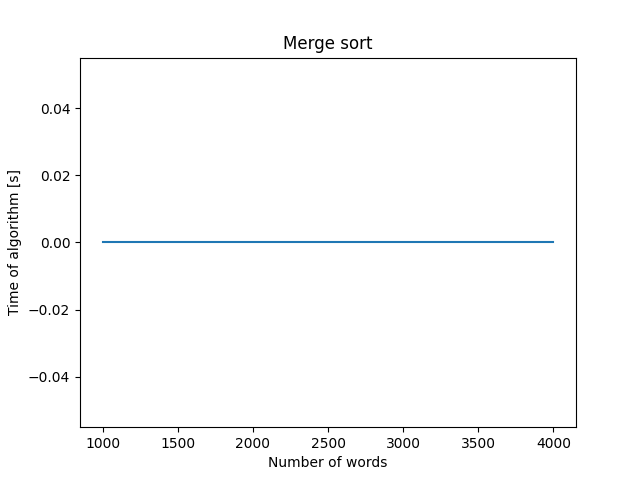
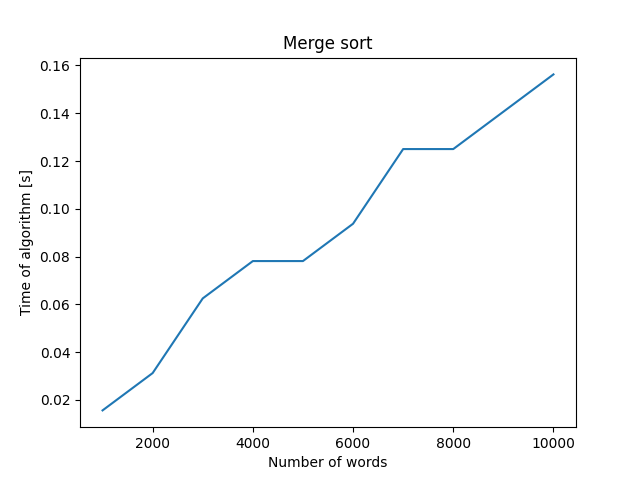
done

diff --git a/main.py b/main.py
@@ -1,95 +1,41 @@
-import time
-import matplotlib.pyplot as plt
-
-
-def bubble_sort(list):
-    sorted_list = list[:]  # copy of original list, so it is not modified
-    n = len(sorted_list)
-    start = time.process_time()
-    for i in range(n):
-        change = False
-        for j in range(0, n - i - 1):
-            if sorted_list[j] > sorted_list[j + 1]:
-                sorted_list[j], sorted_list[j + 1] = (
-                    sorted_list[j + 1],
-                    sorted_list[j],
-                )
-                change = True
-        if not change:
-            break
-    stop = time.process_time()
-    return sorted_list, stop - start
-
-
-def insertion_sort(list):
-    return 0, 0
-
-
-def selection_sort(list):
-    return 0, 0
-
-
-def merge_pass(list):
-    return 0, 0
-
-
-def load_file(path, n):
-    with open(
-        path, "r", encoding="utf8"
-    ) as file:  # opening file from your working folder
-        data = file.read()
-    list_of_words = data.split(maxsplit=n)
-    list_of_words.pop()
-    return list_of_words
-
-
-def make_plot(n, t, name):
-    ax = plt.subplots()[1]
-    ax.plot(n, t)
-    ax.set_xlabel("Number of words")
-    ax.set_ylabel("Time of algorithm [s]")
-    ax.set_title(name)
-    plt.savefig("plots/" + (name.lower().replace(" ", "_")) + ".png")
-    plt.show()
+from sort import *
+from plot import *
+from file import *
+from test import *
 
 
 def main():
-    number_of_words = list(range(1000, 5000, 1000))
+    number_of_words = list(range(1000, 11000, 1000))  # list of nubmer words to read from file
 
     Algorithm_time = {
-        "Bubble sort": [],
-        "Selection sort": [],
-        "Insertion sort": [],
-        "Merge sort": [],
+        "Bubble sort": [[], []],  # for 0 time, for 1 sorted words
+        "Selection sort": [[], []],
+        "Insertion sort": [[], []],
+        "Merge sort": [[], []],
     }
 
     for n in number_of_words:
-        words = load_file("pan-tadeusz.txt", n)
-        words_bubble, t = bubble_sort(words)
-        Algorithm_time["Bubble sort"].append(t)
-        print("Czas wykonania w sekundach Bubble sort:", t)
-
-        words_selection, t = selection_sort(words)  # for Selection algorithm
-        Algorithm_time["Selection sort"].append(t)
-        print("Czas wykonania w sekundach Selection sort:", t)
-
-        words_insertion, t = insertion_sort(words)  # for Insertion algorithm
-        Algorithm_time["Insertion sort"].append(t)
-        print("Czas wykonania w sekundach Insertion sort:", t)
-
-        words_merge, t = merge_pass(words)  # for Merge algorithm
-        Algorithm_time["Merge sort"].append(t)
-        print("Czas wykonania w sekundach Merge sort:", t)
+        words = load_file("pan-tadeusz.txt", n)  # reading words from file
+        print(f"Number of words:{n}")
+        for key in Algorithm_time:
+            if key == "Bubble sort":
+                Algorithm_time[key][1], t = bubble_sort(words)  # for Bubble algorithm
+            elif key == "Selection sort":
+                Algorithm_time[key][1], t = selection_sort(words)  # for Selection algorithm
+            elif key == "Insertion sort":
+                Algorithm_time[key][1], t = insertion_sort(words)  # for Insertion algorithm
+            elif key == "Merge sort":
+                Algorithm_time[key][1] = words[:]  # because of recursive function we need copy before
+                t = merge_sort(Algorithm_time[key][1])  # for Merge algorithm
+            Algorithm_time[key][0].append(t)
+            print(f"Time of execution in seconds for {key} algorithm:{t}")
 
     for key in Algorithm_time:
-        make_plot(number_of_words, Algorithm_time[key], key)
+        make_plot(number_of_words, Algorithm_time[key][0], key)  # making individual plot
+    one_plot(number_of_words, Algorithm_time)  # making one plot with every algorithm
 
-    if words_bubble == words_insertion == words_merge == words_selection:
-        print("All algorithms sorted words the same way, therefore they work correctly")
-    else:
-        print(
-            "Not all algorithms sorted words the same way, therefore they might not work correctly"
-        )
+    test(Algorithm_time, words)
 
 
-main()
+if __name__ == "__main__":
+    main()

diff --git a/sort.py b/sort.py
@@ -1,0 +1,77 @@
+import time
+
+
+def bubble_sort(list):
+    sorted_list = list[:]  # copy of original list, so it is not modified
+    start = time.process_time()
+    n = len(sorted_list)
+    for i in range(n):
+        change = False
+        for j in range(0, n - i - 1):
+            if sorted_list[j] > sorted_list[j + 1]:
+                sorted_list[j], sorted_list[j + 1] = (
+                    sorted_list[j + 1],
+                    sorted_list[j],
+                )
+                change = True
+        if not change:
+            break
+    stop = time.process_time()
+    return sorted_list, stop - start
+
+
+def insertion_sort(list):
+    sorted_list = list[:]
+    start = time.process_time()
+    for i in range(1, len(sorted_list)):
+        key = sorted_list[i]
+        j = i - 1
+        while j >= 0 and key < sorted_list[j]:
+            sorted_list[j + 1] = sorted_list[j]
+            j -= 1
+        sorted_list[j + 1] = key
+    stop = time.process_time()
+    return sorted_list, stop - start
+
+
+def selection_sort(list):
+    sorted_list = list[:]
+    start = time.process_time()
+    n = len(sorted_list)
+    for i in range(n):
+        min_index = i
+        for j in range(i + 1, n):
+            if sorted_list[j] < sorted_list[min_index]:
+                min_index = j
+        sorted_list[i], sorted_list[min_index] = sorted_list[min_index], sorted_list[i]
+    stop = time.process_time()
+    return sorted_list, stop - start
+
+
+def merge_sort(list):
+    start = time.process_time()
+    if len(list) > 1:
+        mid = len(list) // 2
+        left_half = list[:mid]
+        right_half = list[mid:]
+        merge_sort(left_half)
+        merge_sort(right_half)
+        i = j = k = 0
+        while i < len(left_half) and j < len(right_half):
+            if left_half[i] < right_half[j]:
+                list[k] = left_half[i]
+                i += 1
+            else:
+                list[k] = right_half[j]
+                j += 1
+            k += 1
+        while i < len(left_half):
+            list[k] = left_half[i]
+            i += 1
+            k += 1
+        while j < len(right_half):
+            list[k] = right_half[j]
+            j += 1
+            k += 1
+    stop = time.process_time()
+    return stop - start

diff --git a/plot.py b/plot.py
@@ -1,0 +1,21 @@
+import matplotlib.pyplot as plt
+
+
+def make_plot(n, t, name):
+    ax = plt.subplots()[1]
+    ax.plot(n, t)
+    ax.set_xlabel("Number of words")
+    ax.set_ylabel("Time of algorithm [s]")
+    ax.set_title(name)
+    plt.savefig("plots/" + (name.lower().replace(" ", "_")) + ".png")
+    plt.show()
+
+def one_plot(n,A):
+    ax = plt.subplots()[1]
+    for key in A:
+        ax.plot(n,A[key][0],label=key)
+    ax.set_xlabel("Number of words")
+    ax.set_ylabel("Time of algorithm [s]")
+    ax.legend()
+    plt.savefig("plots/" + "plot" + ".png")
+    plt.show()

diff --git a/test.py b/test.py
@@ -1,0 +1,13 @@
+def test(A, w):
+    w_sorted = sorted(w)
+    temp = True
+    for key in A:
+        if A[key][1] != w_sorted:  # checking if all algoithms sorted the same way
+            print(
+                f"Algorithm {key} sorted words not the same way as a built in function sorted(),therefore we can assume that it might not work correctly"
+            )
+            temp = False
+    if temp == True:
+        print(
+            "All algorithms sorted words the same way as a built in function sorted(), therefore we can assume that they might work correctly"
+        )

diff --git a/file.py b/file.py
@@ -1,0 +1,8 @@
+def load_file(path, n):
+    with open(
+        path, "r", encoding="utf8" # there was a problem, without "utf8", would not work
+    ) as file:  # opening file from your working folder
+        data = file.read()
+    list_of_words = data.split(maxsplit=n)
+    list_of_words.pop() # we delete rest of words that we do not need
+    return list_of_words
